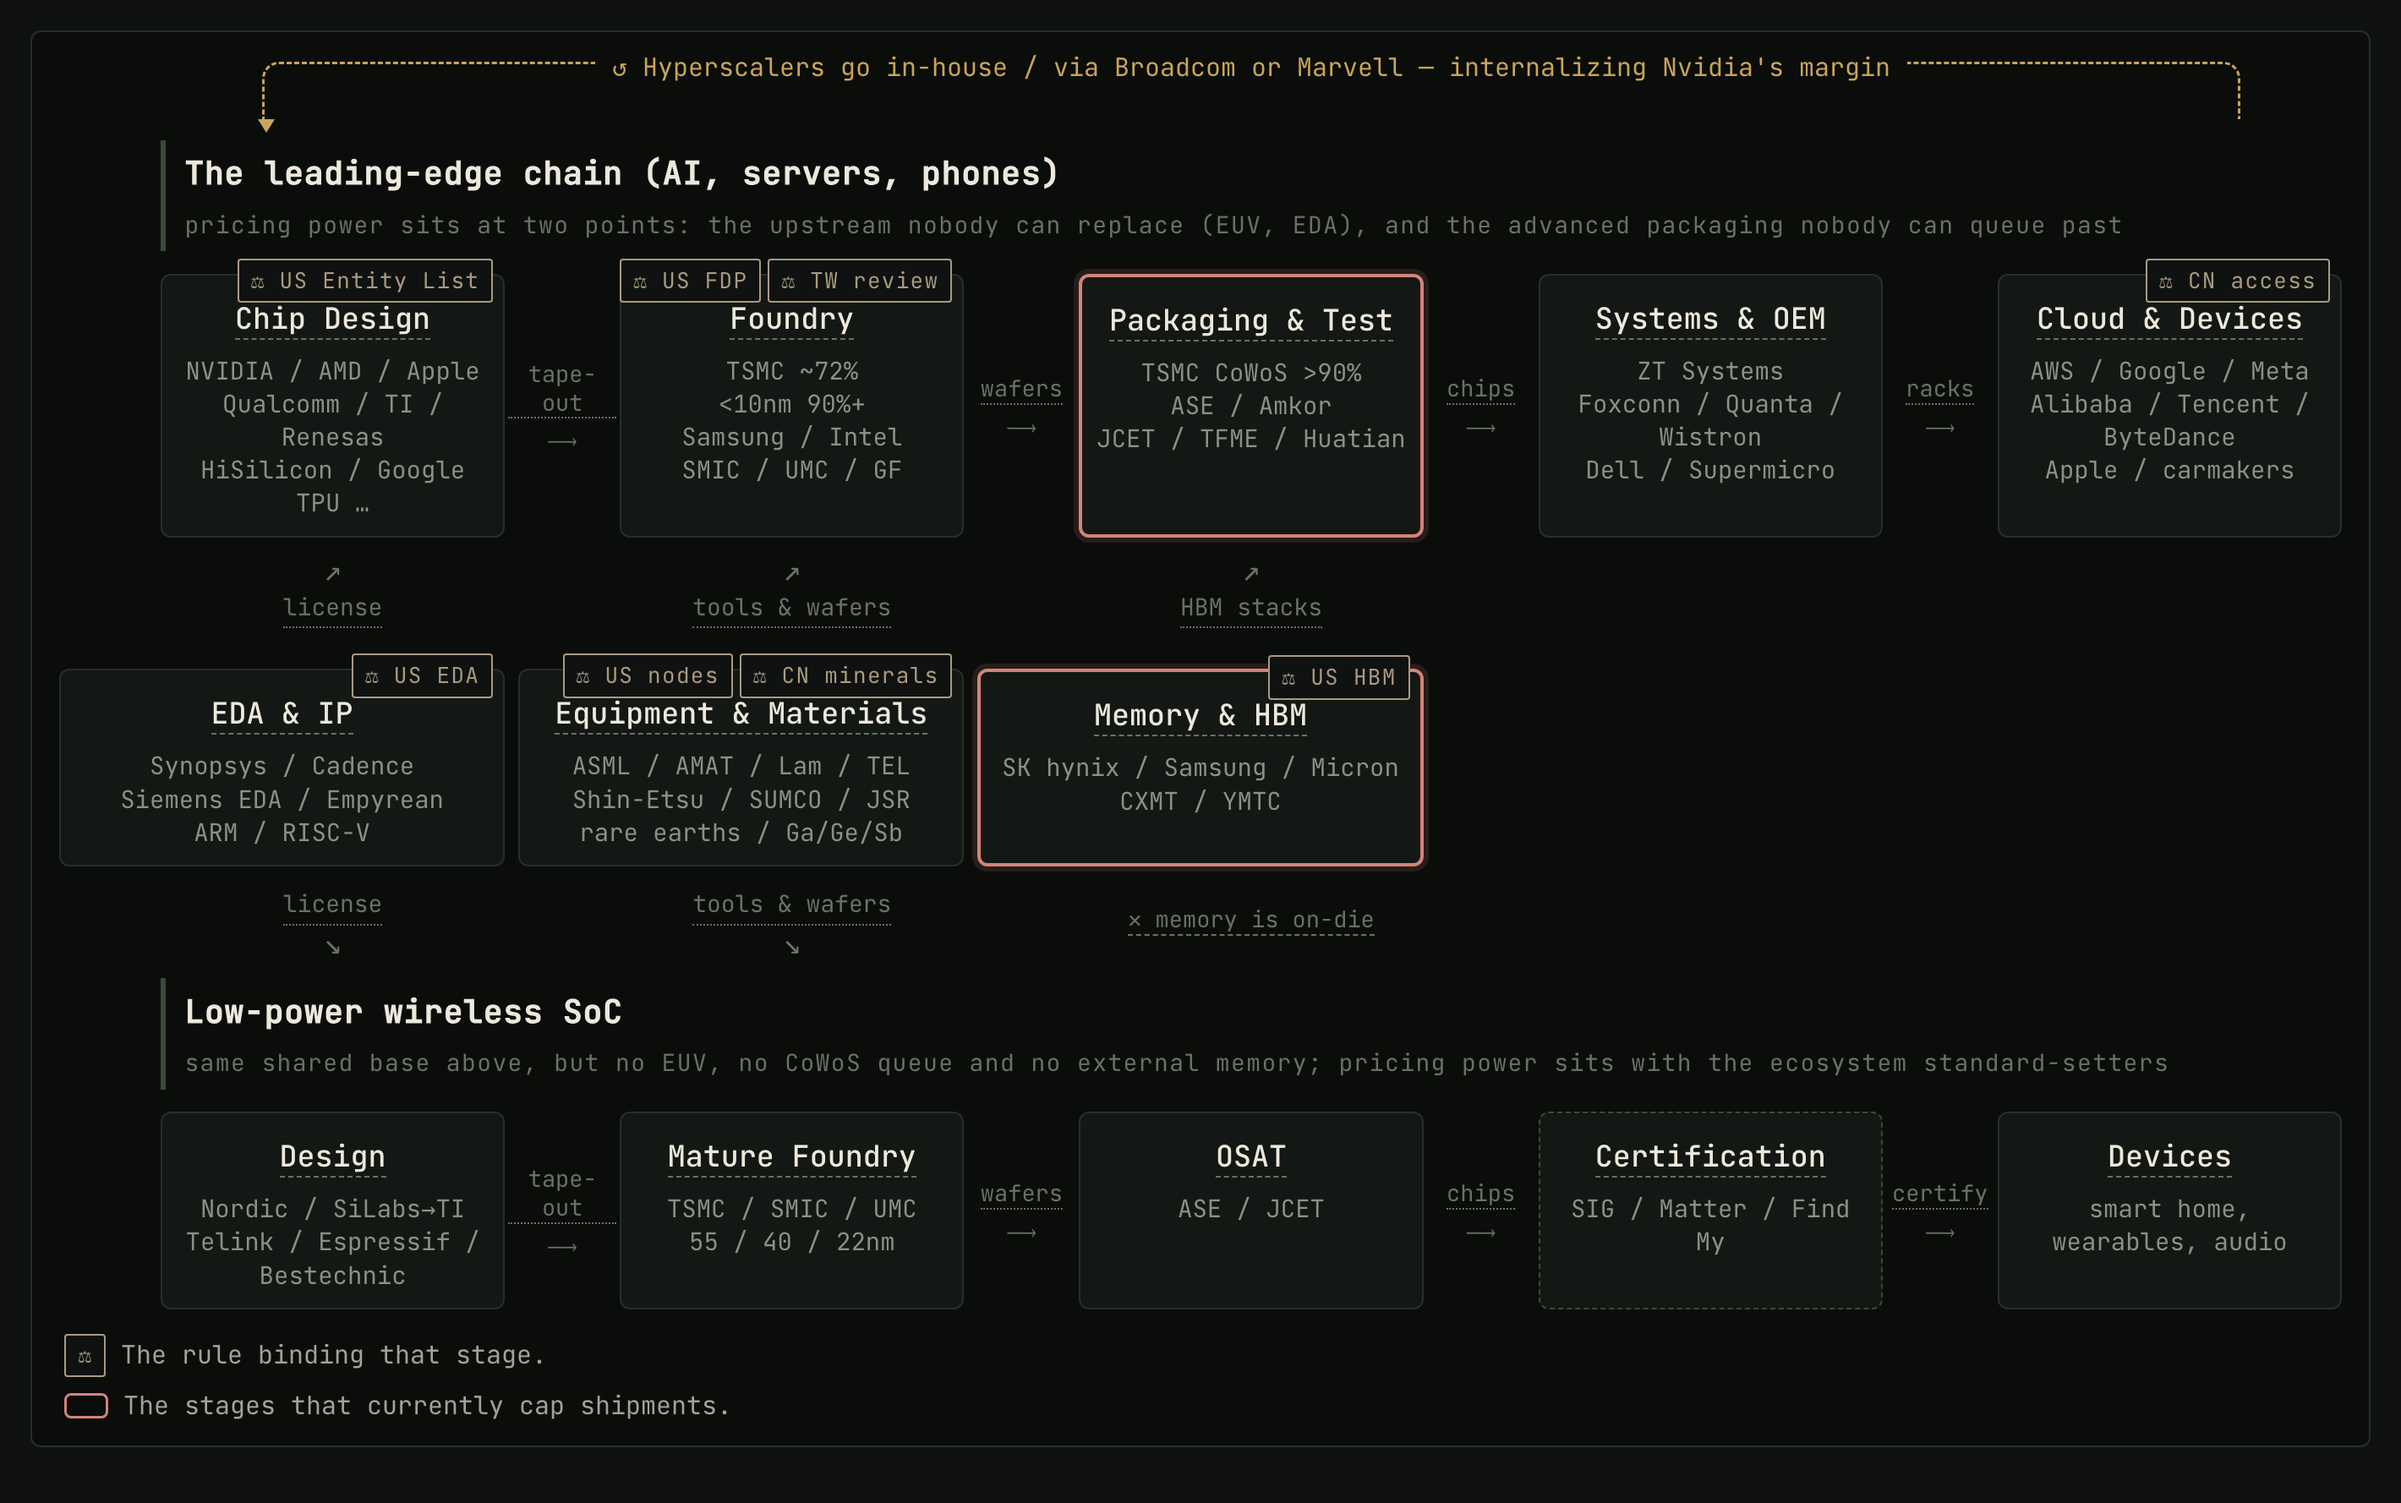
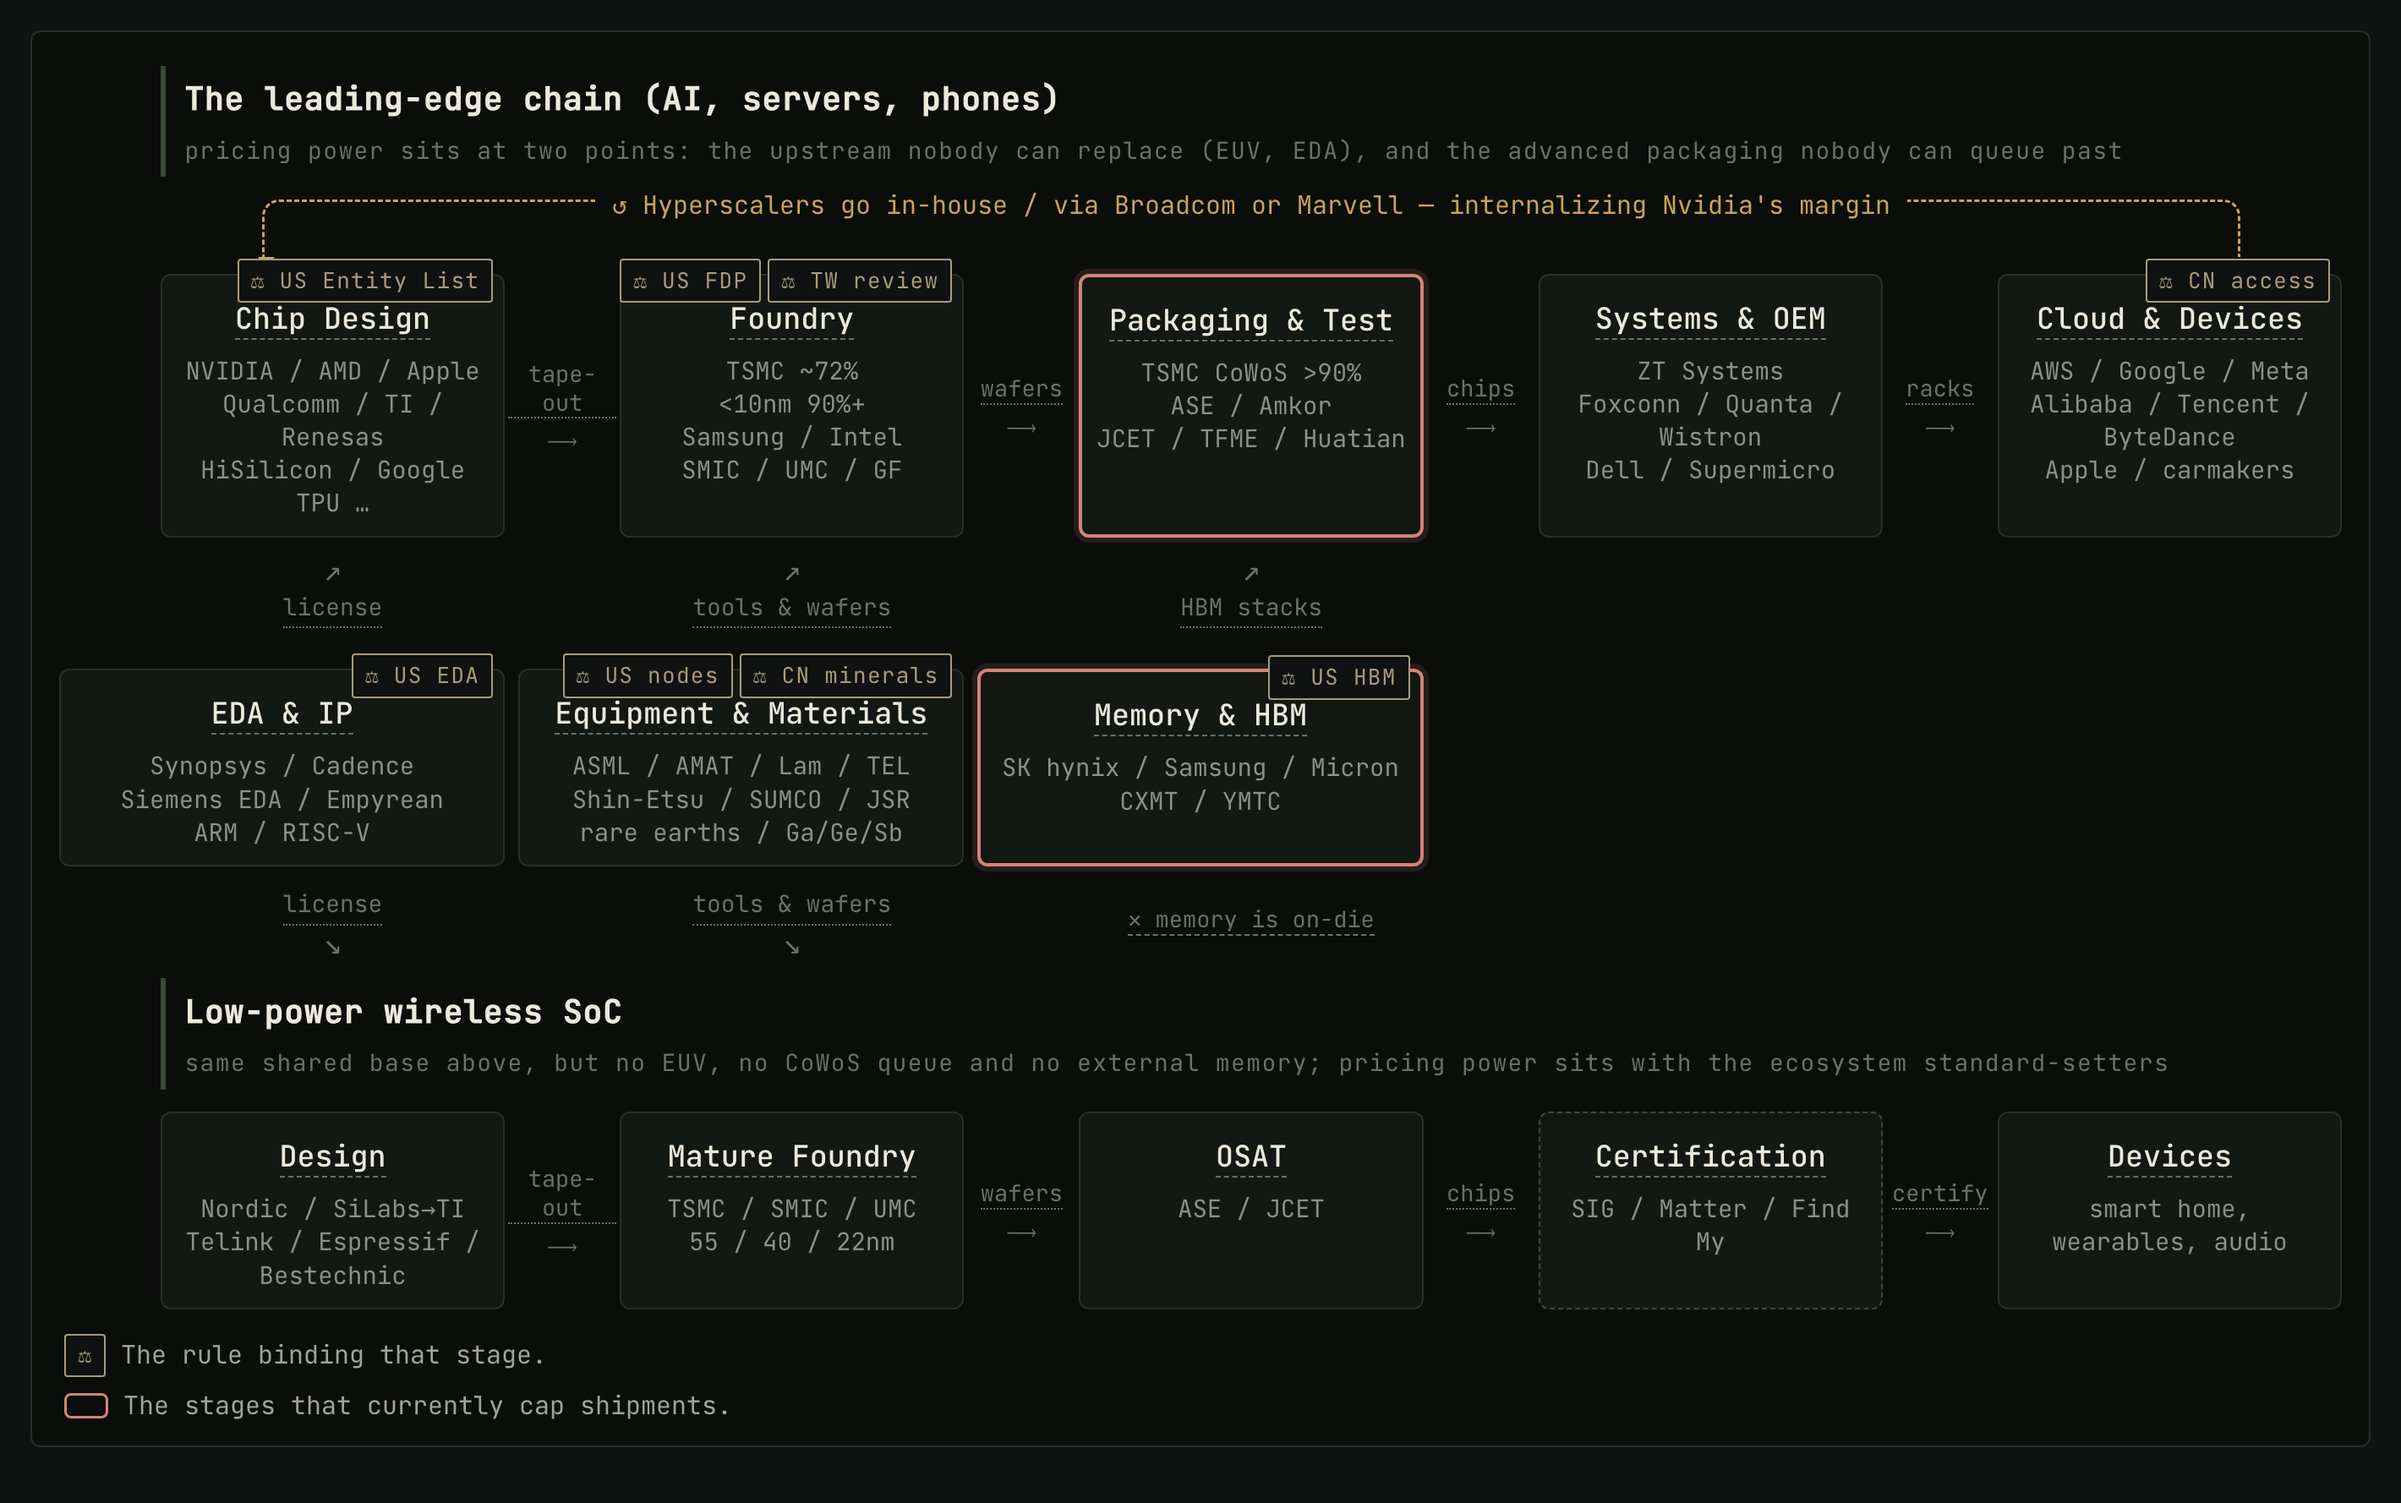
semis: the lane title comes first, the loop sits on the chain
They were the other way round, so the first line of the figure was a
detour drawn above the chain and the title of the lane came second. The
title takes row one; the loop drops to row two, directly over the row it
returns into, with its head landing on chip design.

Changed region(s): [[0.062, 0.0309, 0.8676, 0.1547], [0.6197, 0.0309, 0.7746, 0.0619], [0.4648, 0.0309, 0.5887, 0.0619]]

diff --git a/quartz/static/semis/value-chain-map.html b/quartz/static/semis/value-chain-map.html
@@ -383,8 +383,8 @@ h1.article-title{font-size:30px}
 <div aria-label="language" class="tg-bi-switch" role="group"><label for="tg-lang-zh">中文</label><label for="tg-lang-en">EN</label></div></div>
 </div>
 <div class="filterbar"><span class="ctrl-lab"><span class="tg-lang zh">地区筛选</span><span class="tg-lang en">Region filter</span></span><div class="legend"><label class="b-all" for="r-all"><span class="tg-lang zh">全部</span><span class="tg-lang en">All</span></label><label class="b-us" for="r-us"><span class="tg-lang zh">美国</span><span class="tg-lang en">US</span></label><label class="b-tw" for="r-tw"><span class="tg-lang zh">台湾</span><span class="tg-lang en">Taiwan</span></label><label class="b-cn" for="r-cn"><span class="tg-lang zh">中国大陆</span><span class="tg-lang en">China</span></label><label class="b-kr" for="r-kr"><span class="tg-lang zh">韩国</span><span class="tg-lang en">Korea</span></label><label class="b-jp" for="r-jp"><span class="tg-lang zh">日本</span><span class="tg-lang en">Japan</span></label><label class="b-eu" for="r-eu"><span class="tg-lang zh">欧洲</span><span class="tg-lang en">Europe</span></label></div></div>
-<figure class="fig"><div class="fgrid"><div class="fbrk" style="grid-row:1;grid-column:1/-1"><span class="tg-tip " tabindex="0"><span class="tg-lang zh">↺ 云厂商自研 / 委托 Broadcom 或 Marvell —— 把英伟达的毛利内化</span><span class="tg-lang en">↺ Hyperscalers go in-house / via Broadcom or Marvell — internalizing Nvidia's margin</span><span class="tg-tip-box"><span class="tg-lang zh"><b>云厂商正在把最赚钱的那一层收回自己手里</b>。超大规模厂商自己设计 AI 芯片（Google TPU、AWS Trainium、Microsoft Maia、Meta MTIA），或与博通、Marvell 协同设计——这两家合计约占定制 ASIC 市场 95%。第一动机是把英伟达 70%+ 的毛利内化。</span><span class="tg-lang en"><b>The clouds are taking the most profitable layer back in-house.</b> Hyperscalers design their own AI chips (TPU, Trainium, Maia, MTIA) or co-design with Broadcom and Marvell, who together hold about 95% of the custom-ASIC market. The first motive is to internalise Nvidia's 70%-plus gross margin.</span></span></span></div>
-<div class="flane" style="grid-row:2;grid-column:1/-1"><span class="tg-lang zh"><span class="ln">先进制程链（AI、服务器、手机）</span>定价权在两处：无可替代的上游（EUV、EDA），和排不上队的先进封装</span><span class="tg-lang en"><span class="ln">The leading-edge chain (AI, servers, phones)</span>pricing power sits at two points: the upstream nobody can replace (EUV, EDA), and the advanced packaging nobody can queue past</span></div>
+<figure class="fig"><div class="fgrid"><div class="fbrk" style="grid-row:2;grid-column:1/-1"><span class="tg-tip " tabindex="0"><span class="tg-lang zh">↺ 云厂商自研 / 委托 Broadcom 或 Marvell —— 把英伟达的毛利内化</span><span class="tg-lang en">↺ Hyperscalers go in-house / via Broadcom or Marvell — internalizing Nvidia's margin</span><span class="tg-tip-box"><span class="tg-lang zh"><b>云厂商正在把最赚钱的那一层收回自己手里</b>。超大规模厂商自己设计 AI 芯片（Google TPU、AWS Trainium、Microsoft Maia、Meta MTIA），或与博通、Marvell 协同设计——这两家合计约占定制 ASIC 市场 95%。第一动机是把英伟达 70%+ 的毛利内化。</span><span class="tg-lang en"><b>The clouds are taking the most profitable layer back in-house.</b> Hyperscalers design their own AI chips (TPU, Trainium, Maia, MTIA) or co-design with Broadcom and Marvell, who together hold about 95% of the custom-ASIC market. The first motive is to internalise Nvidia's 70%-plus gross margin.</span></span></span></div>
+<div class="flane" style="grid-row:1;grid-column:1/-1"><span class="tg-lang zh"><span class="ln">先进制程链（AI、服务器、手机）</span>定价权在两处：无可替代的上游（EUV、EDA），和排不上队的先进封装</span><span class="tg-lang en"><span class="ln">The leading-edge chain (AI, servers, phones)</span>pricing power sits at two points: the upstream nobody can replace (EUV, EDA), and the advanced packaging nobody can queue past</span></div>
 <div class="fbox" style="grid-row:3;grid-column:1"><span class="ftag"><span class="fpill tg-tip" tabindex="0">⚖ <span class="tg-lang zh">美国实体清单</span><span class="tg-lang en">US Entity List</span><span class="tg-tip-box"><span class="tg-lang zh">同属一套<b>美国出口管制体系（EAR，商务部 BIS 执行）</b>——五件工具各咬一层，这件管的是「能不能卖给这家公司」。<br><br><b>实体清单点名。</b>华为 2019 年入列、中芯 2020 年、算能 2024 年，2024 年 12 月一次加了 140 多家。向名单上的实体出口受管制物项需要许可证，而许可政策通常是「推定拒绝」。</span><span class="tg-lang en">One instrument of the <b>same US export-control system (the EAR, run by BIS)</b> — five tools each bite one layer, and this one governs whether anyone may sell to this company.<br><br><b>Named on the Entity List.</b> Huawei in 2019, SMIC in 2020, Sophgo in 2024, and over 140 entities added at once in December 2024. Exports of controlled items to a listed party need a licence, normally under a policy of presumptive denial.</span></span></span></span><span class="ft"><span class="tg-tip tipL " tabindex="0"><span class="tg-lang zh">芯片设计</span><span class="tg-lang en">Chip Design</span><span class="tg-tip-box"><span class="tg-lang zh"><b>芯片设计（fabless）</b>。只做设计不建厂，产出是版图（GDSII 数据），交给代工厂印到硅上。英特尔、三星、TI 这类设计制造都自己做的叫 IDM。这一层价值最集中、玩家最多。</span><span class="tg-lang en"><b>Chip design (fabless)</b> — design only, no fab. The output is a layout (GDSII) handed to a foundry to print on silicon. Firms that do both, like Intel, Samsung and TI, are IDMs.</span></span></span></span><span class="fp"><span class="fpl"><span class="sr sr-us">NVIDIA</span> / <span class="sr sr-us">AMD</span> / <span class="sr sr-us">Apple</span></span><span class="fpl"><span class="sr sr-us"><span class="tg-lang zh">高通</span><span class="tg-lang en">Qualcomm</span></span> / <span class="sr sr-us">TI</span> / <span class="sr sr-jp"><span class="tg-lang zh">瑞萨</span><span class="tg-lang en">Renesas</span></span></span><span class="fpl"><span class="sr sr-cn"><span class="tg-lang zh">海思</span><span class="tg-lang en">HiSilicon</span></span> / <span class="sr sr-us">Google TPU …</span></span></span></div>
 <div class="fcon" style="grid-row:3;grid-column:2"><span class="tg-tip " tabindex="0"><span class="tg-lang zh">版图</span><span class="tg-lang en">tape-out</span><span class="tg-tip-box"><span class="tg-lang zh"><b>版图（GDSII）→ tape-out</b>。设计数据定稿、签核、交给代工厂的那个时间点。注意它是事件不是过程。一颗普通 7nm SoC 的首次 tape-out 通常就要 5,000 万美元。</span><span class="tg-lang en"><b>Layout (GDSII) → tape-out</b> — the moment design data is finalized, signed off and handed to the foundry. An event, not a process. A first tape-out of an ordinary 7nm SoC typically runs $50m.</span></span></span><span class="ar">⟶</span></div>
 <div class="fbox" style="grid-row:3;grid-column:3"><span class="ftag"><span class="fpill tg-tip" tabindex="0">⚖ <span class="tg-lang zh">美国 FDP</span><span class="tg-lang en">US FDP</span><span class="tg-tip-box"><span class="tg-lang zh">同属一套<b>美国出口管制体系（EAR，商务部 BIS 执行）</b>——五件工具各咬一层，这件管的是「在国外造的算不算美国管」。<br><br><b>外国直接产品规则（FDP）。</b>一件产品哪怕百分之百在台湾制造、由台湾公司拥有，只要它是用美国的技术、软件或设备「直接生产」出来的，美国就主张管辖权——不论它在哪造、由谁造。<b>这才是台积电受美国法律约束的原因</b>，而不是它有多少美国客户。2020 年针对华为启用，2022 年扩展到先进计算，2024 年 12 月又扩展到半导体设备本身。</span><span class="tg-lang en">One instrument of the <b>same US export-control system (the EAR, run by BIS)</b> — five tools each bite one layer, and this one governs whether a foreign-made product still falls under US law.<br><br><b>The Foreign Direct Product Rule.</b> Even an item made entirely in Taiwan by a Taiwanese company falls under US jurisdiction if it is the direct product of American technology or equipment. <b>That, not its customer list, is why TSMC is bound by US law.</b></span></span></span><span class="fpill tg-tip" tabindex="0">⚖ <span class="tg-lang zh">台湾审查</span><span class="tg-lang en">TW review</span><span class="tg-tip-box"><span class="tg-lang zh"><b>《产业创新条例》第 22 条修正（2025 年 4 月通过）。</b>对外投资特定技术需事前核准，主管机关可以国家安全为由否决或附条件核准。所谓「N-1 原则」（海外制程落后本土一代）从来不是成文禁令，而是通过这道审查行使的裁量性规范，2025 年 1 月起持续放宽。</span><span class="tg-lang en"><b>Article 22 of the Industrial Innovation Act, amended April 2025.</b> Outbound investment in designated technologies needs prior approval, and the ministry may refuse or attach conditions on national-security grounds. The so-called N-1 rule was never a codified ban — it is a discretionary norm applied through this review, and has been loosened since January 2025.</span></span></span></span><span class="ft"><span class="tg-tip " tabindex="0"><span class="tg-lang zh">晶圆代工</span><span class="tg-lang en">Foundry</span><span class="tg-tip-box"><span class="tg-lang zh"><b>晶圆代工（foundry）</b>。在硅片上把别人设计好的电路「印」出来。纯代工（pure-play）意味着自己不设计任何产品，因此永远不与客户竞争——1987 年张忠谋发明的就是这条承诺。</span><span class="tg-lang en"><b>Foundry</b> — a contract manufacturer that prints someone else's design on silicon. <i>Pure-play</i> means designing no products of its own, so it never competes with its customers — the promise Morris Chang invented in 1987.</span></span></span></span><span class="fp"><span class="fpl"><span class="sr sr-tw"><span class="tg-lang zh">台积电 ~72%<br>&lt;10nm 90%+</span><span class="tg-lang en">TSMC ~72%<br>&lt;10nm 90%+</span></span></span><span class="fpl"><span class="sr sr-kr"><span class="tg-lang zh">三星</span><span class="tg-lang en">Samsung</span></span> / <span class="sr sr-us"><span class="tg-lang zh">英特尔</span><span class="tg-lang en">Intel</span></span></span><span class="fpl"><span class="sr sr-cn"><span class="tg-lang zh">中芯</span><span class="tg-lang en">SMIC</span></span> / <span class="sr sr-tw"><span class="tg-lang zh">联电</span><span class="tg-lang en">UMC</span></span> / <span class="sr sr-us">GF</span></span></span></div>
